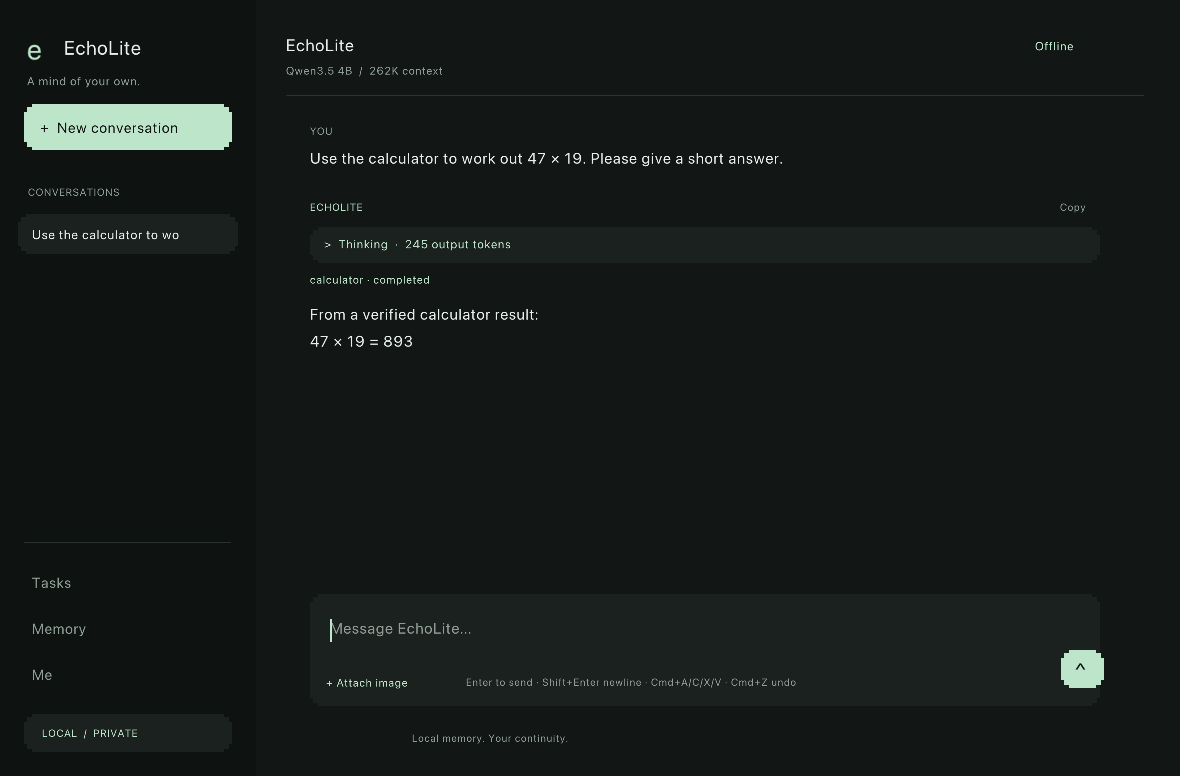
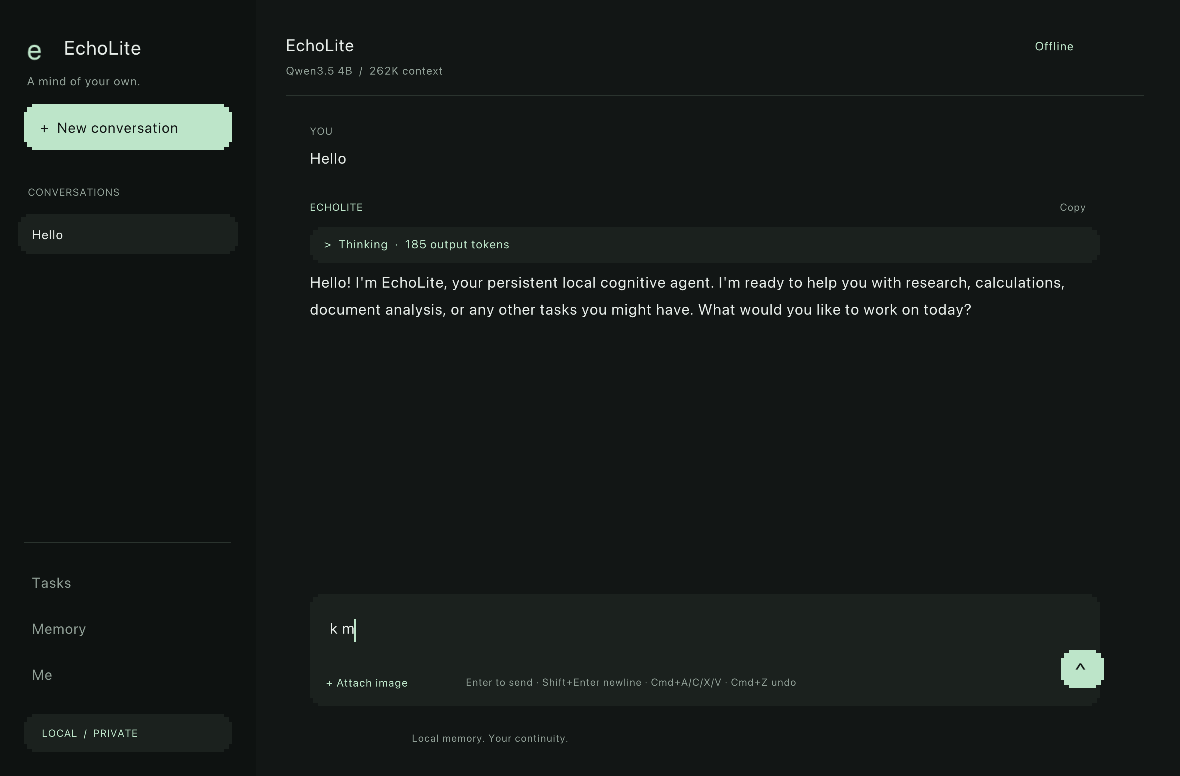
Keep answer basis internal and let replies read naturally

diff --git a/docs/STATUS.md b/docs/STATUS.md
@@ -15,7 +15,7 @@
 
 The last full deterministic offline regression before the latest editor work passed **35 suites**. Focused editor work added **20 native editor checks** and **27 font-layout checks**, including real clipboard round trips, Unicode byte boundaries, insertion/selection replacement, bounded undo/redo and visible selection rendering. These tests do not certify complete macOS accessibility or every physical input sequence. The interface had a hidden-window launch bug and lacked normal editing controls; those reports prompted fixes. UI polish remains ongoing.
 
-The public screenshot comes from an actual local Qwen turn that called the calculator and returned `47 × 19 = 893`. It is an illustration of that path, not a benchmark.
+The public screenshot shows an actual local Qwen greeting, with the visible reply exactly matching the model output. Its preview is limited to that verified turn. Earlier calculator journeys returned `47 × 19 = 893` using tool receipts; those are separate checks, not claims about the greeting screenshot.
 
 ## Performance evidence has a scope
 

diff --git a/README.md b/README.md
@@ -22,7 +22,7 @@ The model supplies language and inference. The surrounding system supplies a tim
 
 The ambition is a locally hosted agent with continuity and room to revise its own understanding. Persistence and self-description are engineering features here—not claims of consciousness or general intelligence.
 
-<p align="center"><img src="docs/assets/chat.png" alt="Actual EchoLite chat showing a local calculator-backed answer in the dark mint interface" width="100%"><br><sub>Actual native UI and local-model conversation. No cloud model used for this demo.</sub></p>
+<p align="center"><img src="docs/assets/chat.png" alt="Actual EchoLite chat showing a naturally worded local-model greeting in the dark mint interface" width="100%"><br><sub>Actual native UI and local-model conversation. No cloud model used for this demo.</sub></p>
 
 ## Remember. Check. Act. Reconsider.
 
